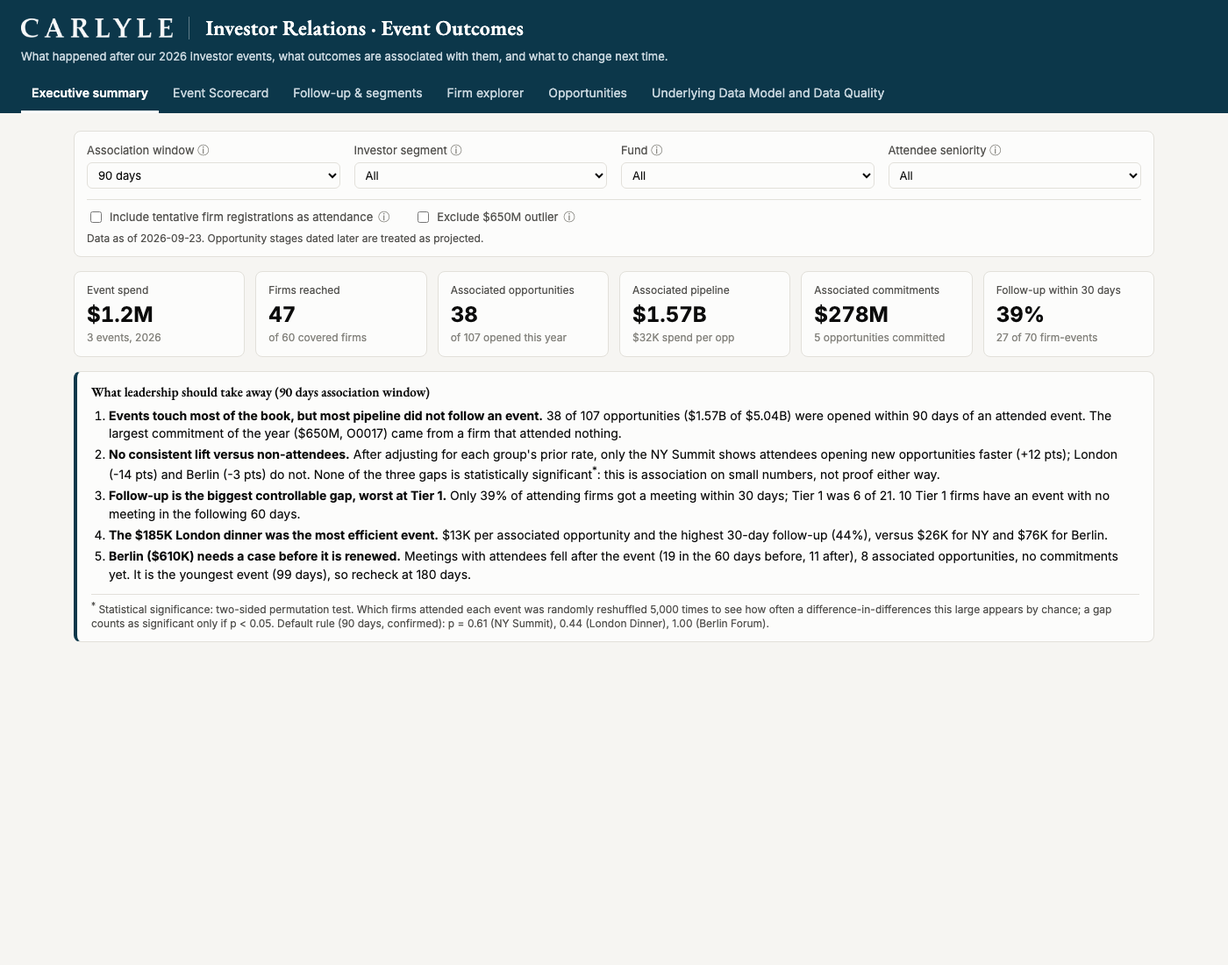
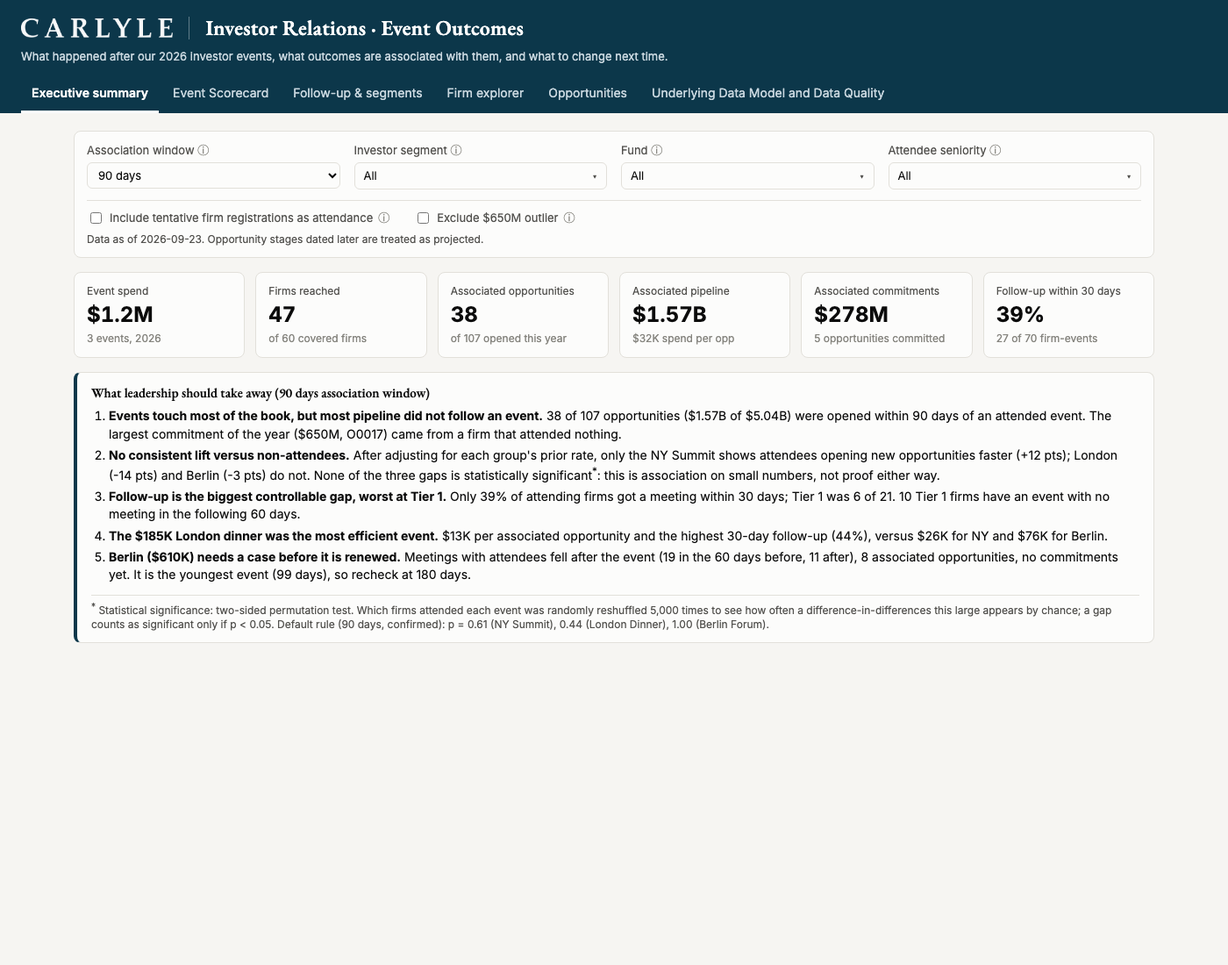
Make segment, fund and seniority filters multi-select
Empty selection means All; both seniority options equal no filter. Engines,
tests and method note updated; checklist dropdowns on the static page.

diff --git a/docs/index.html b/docs/index.html
@@ -38,6 +38,15 @@ main { max-width: 1280px; margin: 0 auto; padding: 20px 24px 60px; }
 .ctl-selects { display: grid; grid-template-columns: repeat(4, minmax(0, 1fr)); gap: 12px 16px; }
 .ctl-selects label.sel { flex-direction: column; align-items: stretch; gap: 4px; }
 .ctl-selects select { width: 100%; }
+.ms { position: relative; }
+.ms summary { list-style: none; cursor: pointer; border: 1px solid var(--border); border-radius: 6px; padding: 5px 28px 5px 10px; background: var(--surface); color: var(--text); font-size: 13px; white-space: nowrap; overflow: hidden; text-overflow: ellipsis; position: relative; }
+.ms summary::-webkit-details-marker { display: none; }
+.ms summary::after { content: '▾'; position: absolute; right: 10px; color: var(--text-2); }
+.ms[open] summary { border-color: var(--accent); }
+.ms-panel { position: absolute; z-index: 20; top: calc(100% + 4px); left: 0; right: 0; background: var(--surface); border: 1px solid var(--border); border-radius: 6px; box-shadow: 0 6px 18px rgba(0,0,0,.12); padding: 6px; max-height: 260px; overflow: auto; }
+.ms-panel label { display: flex; gap: 8px; align-items: center; padding: 5px 6px; border-radius: 4px; color: var(--text); font-size: 13px; cursor: pointer; }
+.ms-panel label:hover { background: var(--surface-2); }
+.ms-panel .ms-clear { display: block; width: 100%; text-align: left; border: 0; background: none; color: var(--accent); font: inherit; font-size: 12px; padding: 5px 6px; cursor: pointer; border-top: 1px solid var(--border); margin-top: 4px; }
 .ctl-toggles { display: flex; flex-wrap: wrap; gap: 8px 28px; margin-top: 12px; padding-top: 10px; border-top: 1px solid var(--border); }
 #filterNote:not(:empty) { margin-top: 8px; }
 #asof { margin-top: 6px; }
@@ -114,10 +123,10 @@ tr.sel { background: var(--surface-2); }
         <option value="90" selected>90 days</option><option value="180">180 days</option>
       </select>
     </label>
-    <label class="sel" title="Keep only firms in this investor segment: attendees, the non-attendee comparison group, and their opportunities."><span class="lbl">Investor segment <span class="info">ⓘ</span></span><select id="gSeg"><option>All</option></select></label>
-    <label class="sel" title="Keep only opportunities for this fund. Attendance, meetings and follow-up are not affected."><span class="lbl">Fund <span class="info">ⓘ</span></span><select id="gFund"><option>All</option></select></label>
-    <label class="sel" title="Count attendance only where a CIO or Managing Director was registered (or only where none was). Firms dropped by this filter leave the comparison group too, rather than being counted as non-attendees."><span class="lbl">Attendee seniority <span class="info">ⓘ</span></span>
-      <select id="gSen"><option value="All">All</option><option value="senior">CIO or MD registered</option><option value="non_senior">No CIO or MD</option></select></label>
+    <label class="sel" title="Pick one or more investor segments. Keeps only firms in those segments: attendees, the non-attendee comparison group, and their opportunities."><span class="lbl">Investor segment <span class="info">ⓘ</span></span><details class="ms" id="gSeg"><summary>All</summary><div class="ms-panel"></div></details></label>
+    <label class="sel" title="Pick one or more funds. Keeps only opportunities for those funds. Attendance, meetings and follow-up are not affected."><span class="lbl">Fund <span class="info">ⓘ</span></span><details class="ms" id="gFund"><summary>All</summary><div class="ms-panel"></div></details></label>
+    <label class="sel" title="Count attendance only where a CIO or Managing Director was registered (or only where none was). Selecting both options is the same as All. Firms dropped by this filter leave the comparison group too, rather than being counted as non-attendees."><span class="lbl">Attendee seniority <span class="info">ⓘ</span></span>
+      <details class="ms" id="gSen"><summary>All</summary><div class="ms-panel"><label><input type="checkbox" value="senior"> CIO or MD registered</label><label><input type="checkbox" value="non_senior"> No CIO or MD</label></div></details></label>
     </div>
     <div class="ctl-toggles">
     <label title="Each registrant is Confirmed or Tentative. By default a firm counts as attending an event only if at least one of its contacts is Confirmed. Turn this on to also count the 9 firm-event registrations where every contact was Tentative. Off by default because the data has no check-in record, so tentative firms may not have attended."><input type="checkbox" id="tent"> Include tentative firm registrations as attendance <span class="info">ⓘ</span></label>
@@ -413,24 +422,25 @@ document.querySelectorAll('#nav button').forEach(b => b.onclick = () => {
 
 const P = IRMetrics.prepare(D);
 (() => { const bad = IRMetrics.selfTest(P); bad.length ? console.error('metrics.js does not match mart_event_kpis', bad) : console.info('metrics.js self-test passed: matches mart_event_kpis for all 24 settings'); })();
-const filters = () => ({window: +$('#win').value, tentative: $('#tent').checked, segment: $('#gSeg').value, fund: $('#gFund').value,
-  seniority: $('#gSen').value, excludeOutlier: $('#gOut').checked});
-const extraActive = f => f.segment !== 'All' || f.fund !== 'All' || f.seniority !== 'All' || f.excludeOutlier;
+const msValues = id => [...document.querySelectorAll(`#${id} input:checked`)].map(x => x.value);
+const filters = () => ({window: +$('#win').value, tentative: $('#tent').checked, segment: msValues('gSeg'), fund: msValues('gFund'),
+  seniority: msValues('gSen'), excludeOutlier: $('#gOut').checked});
+const extraActive = f => !IRMetrics.isDefaultExtra(f);
 function kpis() { return IRMetrics.eventKpis(P, filters()); }
 function ctx() {
   const f = filters(), {att, base} = IRMetrics.attendance(P, f);
   const attFirms = new Set(att.map(r => r.firm_id));
-  const noneLabel = f.seniority !== 'All' ? 'No qualifying attendance' : f.tentative ? 'No attendance' : 'No confirmed attendance';
+  const noneLabel = IRMetrics.senMode(f) !== 'All' ? 'No qualifying attendance' : f.tentative ? 'No attendance' : 'No confirmed attendance';
   const opps = IRMetrics.associate(IRMetrics.filteredOpps(P, f), att, f.window).map(o => ({...o,
     bucket: o.assoc_event_id ? `Event-associated (${f.window}d)` : attFirms.has(o.firm_id) ? 'Attendee, outside window' : noneLabel}));
-  const firmsIn = f.segment === 'All' ? D.mart_firm : D.mart_firm.filter(r => r.segment === f.segment);
+  const firmsIn = !f.segment.length ? D.mart_firm : D.mart_firm.filter(r => f.segment.includes(r.segment));
   return {f, att, base, opps, attFirms, firmsIn, noneLabel, buckets: [`Event-associated (${f.window}d)`, 'Attendee, outside window', noneLabel]};
 }
 function describeFilters(f) {
   const parts = [`${f.window}-day window`, f.tentative ? 'confirmed + tentative attendance' : 'confirmed attendance'];
-  if (f.segment !== 'All') parts.push(`segment: ${f.segment}`);
-  if (f.fund !== 'All') parts.push(`fund: ${f.fund}`);
-  if (f.seniority !== 'All') parts.push(f.seniority === 'senior' ? 'CIO/MD registered' : 'no CIO/MD');
+  if (f.segment.length) parts.push(`segment: ${f.segment.join(', ')}`);
+  if (f.fund.length) parts.push(`fund: ${f.fund.join(', ')}`);
+  if (IRMetrics.senMode(f) !== 'All') parts.push(IRMetrics.senMode(f) === 'senior' ? 'CIO/MD registered' : 'no CIO/MD');
   if (f.excludeOutlier) parts.push('excl. $650M outlier');
   return parts.join(' · ');
 }
@@ -482,7 +492,7 @@ function renderOverview() {
   const C = ctx(), cost = sum('cost_usd'), firms = C.attFirms.size;
   const tiles = [
     ['Event spend', fmtM(cost), '3 events, 2026'],
-    ['Firms reached', firms, `of ${C.firmsIn.length} covered firms${C.f.segment !== 'All' ? ' in segment' : ''}`],
+    ['Firms reached', firms, `of ${C.firmsIn.length} covered firms${C.f.segment.length ? ' in selected segments' : ''}`],
     ['Associated opportunities', sum('assoc_opps'), `of ${C.opps.length} opened this year${extraActive(C.f) ? ' (filtered)' : ''}`],
     ['Associated pipeline', fmtM(sum('assoc_pipeline_usd')), `${fmtK(cost / Math.max(1, sum('assoc_opps')))} spend per opp`],
     ['Associated commitments', fmtM(sum('assoc_committed_usd')), `${sum('assoc_committed_opps')} opportunities committed`],
@@ -739,9 +749,19 @@ function renderAll() {
 }
 $('#win').onchange = renderAll; $('#tent').onchange = renderAll;
 initFirmFilters();
-$('#gSeg').insertAdjacentHTML('beforeend', [...new Set(D.mart_firm.map(r => r.segment))].sort().map(v => `<option>${esc(v)}</option>`).join(''));
-$('#gFund').insertAdjacentHTML('beforeend', [...new Set(D.mart_opportunity.map(r => r.fund_name))].sort().map(v => `<option>${esc(v)}</option>`).join(''));
-['#gSeg', '#gFund', '#gSen', '#gOut'].forEach(sel => $(sel).onchange = renderAll);
+const msOptions = (id, vals) => $(`#${id} .ms-panel`).insertAdjacentHTML('afterbegin', vals.map(v => `<label><input type="checkbox" value="${esc(v)}"> ${esc(v)}</label>`).join(''));
+msOptions('gSeg', [...new Set(D.mart_firm.map(r => r.segment))].sort());
+msOptions('gFund', [...new Set(D.mart_opportunity.map(r => r.fund_name))].sort());
+['gSeg', 'gFund', 'gSen'].forEach(id => {
+  const el = document.getElementById(id), panel = el.querySelector('.ms-panel');
+  panel.insertAdjacentHTML('beforeend', '<button type="button" class="ms-clear">Clear (All)</button>');
+  const sync = () => { const v = [...el.querySelectorAll('input:checked')].map(x => x.parentElement.textContent.trim());
+    el.querySelector('summary').textContent = !v.length ? 'All' : v.length <= 2 ? v.join(', ') : `${v.length} selected`; };
+  panel.addEventListener('change', () => { sync(); renderAll(); });
+  panel.querySelector('.ms-clear').onclick = () => { el.querySelectorAll('input').forEach(x => (x.checked = false)); sync(); renderAll(); };
+});
+document.addEventListener('click', e => document.querySelectorAll('details.ms[open]').forEach(d => { if (!d.contains(e.target)) d.open = false; }));
+$('#gOut').onchange = renderAll;
 if (startView) document.querySelector(`#nav button[data-view="${startView}"]`)?.click(); else renderAll();
 </script>
 </body>

diff --git a/docs/metrics.js b/docs/metrics.js
@@ -1,6 +1,7 @@
 // Filter-aware event KPIs for the static dashboard. Line-for-line port of app/metrics.py:
 // with no extra filters it reproduces mart_event_kpis (checked by selfTest() below).
-// Filters: {window, tentative, segment, fund, seniority: 'All'|'senior'|'non_senior', excludeOutlier}
+// Filters: {window, tentative, segment: [..], fund: [..], seniority: subset of ['senior','non_senior'], excludeOutlier}
+// Empty arrays mean no filter; both seniority options selected is the same as none.
 (function () {
   const DAY = 864e5;
   const toDate = s => (s ? new Date(s + 'T00:00:00Z') : null);
@@ -27,20 +28,22 @@
     return {fe, opps, stages, events, firms: D.mart_firm, meetings: D.mart_meetings, kpis: D.mart_event_kpis};
   }
 
-  const isDefaultExtra = f => f.segment === 'All' && f.fund === 'All' && f.seniority === 'All' && !f.excludeOutlier;
+  const arr = v => (v == null || v === 'All' ? [] : Array.isArray(v) ? v : [v]);
+  const senMode = f => (arr(f.seniority).length === 1 ? arr(f.seniority)[0] : 'All');
+  const isDefaultExtra = f => !arr(f.segment).length && !arr(f.fund).length && senMode(f) === 'All' && !f.excludeOutlier;
 
   function attendance(P, f) {
     let base = P.fe.filter(r => r.is_confirmed || f.tentative);
-    if (f.segment !== 'All') base = base.filter(r => r.segment === f.segment);
+    if (arr(f.segment).length) base = base.filter(r => arr(f.segment).includes(r.segment));
     const senior = r => (f.tentative ? r.senior_contacts > 0 : r.has_confirmed_senior);
     let att = base;
-    if (f.seniority === 'senior') att = base.filter(senior);
-    else if (f.seniority === 'non_senior') att = base.filter(r => !senior(r));
+    if (senMode(f) === 'senior') att = base.filter(senior);
+    else if (senMode(f) === 'non_senior') att = base.filter(r => !senior(r));
     return {att, base};
   }
 
   function filteredOpps(P, f) {
-    return P.opps.filter(o => (f.segment === 'All' || o.segment === f.segment) && (f.fund === 'All' || o.fund_name === f.fund) && !(f.excludeOutlier && o.is_amount_outlier));
+    return P.opps.filter(o => (!arr(f.segment).length || arr(f.segment).includes(o.segment)) && (!arr(f.fund).length || arr(f.fund).includes(o.fund_name)) && !(f.excludeOutlier && o.is_amount_outlier));
   }
 
   function associate(opps, att, window) {
@@ -73,7 +76,7 @@
     const {att, base} = attendance(P, f);
     const opps = filteredOpps(P, f);
     const assoc = associate(opps, att, f.window);
-    const firms = f.segment === 'All' ? P.firms : P.firms.filter(r => r.segment === f.segment);
+    const firms = !arr(f.segment).length ? P.firms : P.firms.filter(r => arr(f.segment).includes(r.segment));
     const rand = rng(7);
     const rows = P.events.map(ev => {
       const a = att.filter(r => r.event_id === ev.event_id);
@@ -131,12 +134,12 @@
       'diff_in_diff_opp_rate', 'open_opps_attendees', 'open_opps_attendees_advanced', 'open_opps_non_attendees', 'open_opps_non_attendees_advanced',
       'open_pipeline_attendees_usd'];
     const bad = [];
-    [30, 60, 90, 180].forEach(w => [false, true].forEach(t => eventKpis(P, {window: w, tentative: t, segment: 'All', fund: 'All', seniority: 'All', excludeOutlier: false}).forEach(r => {
+    [30, 60, 90, 180].forEach(w => [false, true].forEach(t => eventKpis(P, {window: w, tentative: t, segment: [], fund: [], seniority: [], excludeOutlier: false}).forEach(r => {
       const m = P.kpis.find(k => k.event_id === r.event_id && k.window_days === w && k.include_tentative === t);
       cols.forEach(c => { const x = r[c], y = m[c]; if (!((x == null && y == null) || Math.abs(x - y) < 1e-9)) bad.push(`${w}/${t}/${r.event_id}/${c}: ${x} vs ${y}`); });
     })));
     return bad;
   }
 
-  window.IRMetrics = {prepare, attendance, filteredOpps, associate, eventKpis, selfTest};
+  window.IRMetrics = {prepare, attendance, filteredOpps, associate, eventKpis, selfTest, senMode, isDefaultExtra};
 })();

diff --git a/app/streamlit_app.py b/app/streamlit_app.py
@@ -161,13 +161,13 @@ brand_css()
 row = st.columns(4)
 window = row[0].selectbox("Association window (days)", [30, 60, 90, 180], index=2,
                           help="How many days after an event a new opportunity can be opened and still be linked to that event. The firm must have attended; if several events qualify, the most recent one gets credit. Longer windows link more pipeline but make the link to the event weaker.")
-segment = row[1].selectbox("Investor segment", ["All"] + sorted(firms.segment.unique()),
-                           help="Keep only firms in this investor segment: attendees, the non-attendee comparison group, and their opportunities.")
-fund = row[2].selectbox("Fund", ["All"] + sorted(opps.fund_name.unique()),
-                        help="Keep only opportunities for this fund. Attendance, meetings and follow-up are not affected.")
-seniority = row[3].selectbox("Attendee seniority", ["All", "senior", "non_senior"],
-                             format_func={"All": "All", "senior": "CIO or MD registered", "non_senior": "No CIO or MD"}.get,
-                             help="Count attendance only where a CIO or Managing Director was registered (or only where none was). Firms dropped by this filter leave the comparison group too, rather than being counted as non-attendees.")
+segment = tuple(row[1].multiselect("Investor segment", sorted(firms.segment.unique()), placeholder="All",
+                                   help="Pick one or more investor segments. Keeps only firms in those segments: attendees, the non-attendee comparison group, and their opportunities."))
+fund = tuple(row[2].multiselect("Fund", sorted(opps.fund_name.unique()), placeholder="All",
+                                help="Pick one or more funds. Keeps only opportunities for those funds. Attendance, meetings and follow-up are not affected."))
+seniority = tuple(row[3].multiselect("Attendee seniority", ["senior", "non_senior"], placeholder="All",
+                             format_func={"senior": "CIO or MD registered", "non_senior": "No CIO or MD"}.get,
+                             help="Count attendance only where a CIO or Managing Director was registered (or only where none was). Selecting both options is the same as All. Firms dropped by this filter leave the comparison group too, rather than being counted as non-attendees."))
 row = st.columns([2.2, 1.3, 2.5])
 tent = row[0].toggle("Include tentative firm registrations as attendance", value=False,
                      help="Each registrant is Confirmed or Tentative. By default a firm counts as attending an event only if at least one of its contacts is Confirmed. Turn this on to also count the 9 firm-event registrations where every contact was Tentative. Off by default because the data has no check-in record, so tentative firms may not have attended.")
@@ -188,22 +188,22 @@ labels = [EV_SHORT[e] for e in K.event_id]
 # filtered detail shared by the charts
 ATT, _BASE = attendance(P, F)
 ATT_FIRMS = set(ATT.firm_id)
-NONE_LABEL = "No qualifying attendance" if seniority != "All" else "No attendance" if tent else "No confirmed attendance"
+NONE_LABEL = "No qualifying attendance" if F.seniority_mode != "All" else "No attendance" if tent else "No confirmed attendance"
 BUCKETS = [f"Event-associated ({window}d)", "Attendee, outside window", NONE_LABEL]
 FOPPS = associate(filtered_opps(P, F), ATT, window)
 FOPPS["bucket"] = [BUCKETS[0] if isinstance(e, str) else BUCKETS[1] if fid in ATT_FIRMS else NONE_LABEL
                    for e, fid in zip(FOPPS.assoc_event_id, FOPPS.firm_id)]
-FIRMS_IN = firms if segment == "All" else firms[firms.segment == segment]
+FIRMS_IN = firms if not segment else firms[firms.segment.isin(segment)]
 
 
 def describe(f: Filters) -> str:
     parts = [f"{f.window}-day window", "confirmed + tentative attendance" if f.tentative else "confirmed attendance"]
-    if f.segment != "All":
-        parts.append(f"segment: {f.segment}")
-    if f.fund != "All":
-        parts.append(f"fund: {f.fund}")
-    if f.seniority != "All":
-        parts.append("CIO/MD registered" if f.seniority == "senior" else "no CIO/MD")
+    if f.segment:
+        parts.append("segment: " + ", ".join(f.segment))
+    if f.fund:
+        parts.append("fund: " + ", ".join(f.fund))
+    if f.seniority_mode != "All":
+        parts.append("CIO/MD registered" if f.seniority_mode == "senior" else "no CIO/MD")
     if f.exclude_outlier:
         parts.append("excl. $650M outlier")
     return " · ".join(parts)
@@ -223,7 +223,7 @@ with tab_o:
     reached = len(ATT_FIRMS)
     cols = st.columns(3) + st.columns(3)
     cols[0].metric("Event spend", fm(K.cost_usd.sum()), help="3 events, 2026")
-    cols[1].metric("Firms reached", reached, help=f"of {len(FIRMS_IN)} covered firms" + (" in segment" if segment != "All" else ""))
+    cols[1].metric("Firms reached", reached, help=f"of {len(FIRMS_IN)} covered firms" + (" in selected segments" if segment else ""))
     cols[2].metric("Associated opportunities", int(K.assoc_opps.sum()), help=f"of {len(FOPPS)} opened this year" + ("" if F.is_default_extra else " (filtered)"))
     cols[3].metric("Associated pipeline", fm(K.assoc_pipeline_usd.sum()))
     cols[4].metric("Associated commitments", fm(K.assoc_committed_usd.sum()))

diff --git a/app/metrics.py b/app/metrics.py
@@ -7,11 +7,13 @@ mart_event_kpis exactly; tests/test_metrics.py asserts that for all 24 grid cell
 docs/metrics.js is a line-for-line port for the static dashboard.
 
 Filter semantics
-  segment    keeps firms in that investor segment (attendees, comparison group, opportunities)
-  fund       keeps opportunities for that fund (attendance and meetings unaffected)
+  segment    keeps firms in the selected investor segments (attendees, comparison group, opportunities)
+  fund       keeps opportunities for the selected funds (attendance and meetings unaffected)
   seniority  "senior": count attendance only where a CIO or MD was registered
              "non_senior": only where none was; firms dropped by this filter are
              excluded from the comparison group rather than counted as non-attendees
+  Each of these three is multi-select: an empty selection (or "All") means no filter;
+  selecting both seniority options is the same as no seniority filter.
   exclude_outlier drops opportunities flagged is_amount_outlier (O0017, $650M)
 """
 from __future__ import annotations
@@ -28,14 +30,24 @@ N_PERMUTATIONS = 5_000
 class Filters:
     window: int = 90
     tentative: bool = False
-    segment: str = "All"
-    fund: str = "All"
-    seniority: str = "All"  # All | senior | non_senior
+    segment: tuple = ()
+    fund: tuple = ()
+    seniority: tuple = ()  # subset of ("senior", "non_senior")
     exclude_outlier: bool = False
+
+    def __post_init__(self):
+        for name in ("segment", "fund", "seniority"):
+            v = getattr(self, name)
+            v = () if v in (None, "All") else (v,) if isinstance(v, str) else tuple(sorted(x for x in v if x != "All"))
+            object.__setattr__(self, name, v)
+
+    @property
+    def seniority_mode(self) -> str:
+        return self.seniority[0] if len(self.seniority) == 1 else "All"
 
     @property
     def is_default_extra(self) -> bool:
-        return self.segment == "All" and self.fund == "All" and self.seniority == "All" and not self.exclude_outlier
+        return not self.segment and not self.fund and self.seniority_mode == "All" and not self.exclude_outlier
 
 
 def _median(s: pd.Series):
@@ -61,23 +73,23 @@ def attendance(P: dict, f: Filters) -> tuple[pd.DataFrame, pd.DataFrame]:
     """(attending firm-events after all filters, attending firm-events before the seniority filter)."""
     fe = P["fe"]
     base = fe[fe.is_confirmed | f.tentative]
-    if f.segment != "All":
-        base = base[base.segment == f.segment]
+    if f.segment:
+        base = base[base.segment.isin(f.segment)]
     senior = base.senior_contacts.gt(0) if f.tentative else base.has_confirmed_senior
     att = base
-    if f.seniority == "senior":
+    if f.seniority_mode == "senior":
         att = base[senior]
-    elif f.seniority == "non_senior":
+    elif f.seniority_mode == "non_senior":
         att = base[~senior]
     return att, base
 
 
 def filtered_opps(P: dict, f: Filters) -> pd.DataFrame:
     o = P["opps"]
-    if f.segment != "All":
-        o = o[o.segment == f.segment]
-    if f.fund != "All":
-        o = o[o.fund_name == f.fund]
+    if f.segment:
+        o = o[o.segment.isin(f.segment)]
+    if f.fund:
+        o = o[o.fund_name.isin(f.fund)]
     if f.exclude_outlier:
         o = o[~o.is_amount_outlier]
     return o
@@ -106,7 +118,7 @@ def event_kpis(P: dict, f: Filters) -> pd.DataFrame:
     att, base = attendance(P, f)
     opps = filtered_opps(P, f)
     assoc = associate(opps, att, f.window)
-    firms = P["firms"] if f.segment == "All" else P["firms"][P["firms"].segment == f.segment]
+    firms = P["firms"] if not f.segment else P["firms"][P["firms"].segment.isin(f.segment)]
     stages = P["stages"]
     rng = np.random.default_rng(7)
     rows = []

diff --git a/tests/test_streamlit_app.py b/tests/test_streamlit_app.py
@@ -18,6 +18,10 @@ def sel(label, value):
     return lambda at: next(s for s in at.selectbox if s.label == label).set_value(value)
 
 
+def multi(label, values):
+    return lambda at: next(s for s in at.multiselect if s.label == label).set_value(values)
+
+
 def tog(label):
     return lambda at: next(t for t in at.toggle if t.label == label).set_value(True)
 
@@ -29,11 +33,14 @@ def metric(at, label):
 def test_filters():
     base = run()
     assert metric(base, "Associated opportunities") == "38"
-    cases = {"segment": sel("Investor segment", "Pension"), "fund": sel("Fund", "Fund Beta"),
-             "senior": sel("Attendee seniority", "senior"), "outlier": tog("Exclude $650M outlier"),
+    cases = {"segment": multi("Investor segment", ["Pension"]), "fund": multi("Fund", ["Fund Beta"]),
+             "senior": multi("Attendee seniority", ["senior"]), "outlier": tog("Exclude $650M outlier"),
+             "both_senior": multi("Attendee seniority", ["senior", "non_senior"]),
+             "two_segments": multi("Investor segment", ["Pension", "Insurance"]),
              "window": sel("Association window (days)", 30), "tentative": tog("Include tentative firm registrations as attendance")}
     got = {k: metric(run(f), "Associated opportunities") for k, f in cases.items()}
-    assert got == {"segment": "6", "fund": "13", "senior": "13", "outlier": "38", "window": "21", "tentative": "41"}, got
+    assert got == {"segment": "6", "fund": "13", "senior": "13", "outlier": "38", "both_senior": "38", "two_segments": got["two_segments"],
+                   "window": "21", "tentative": "41"}, got
     print("streamlit filter results:", got)
 
 

diff --git a/tests/test_metrics.py b/tests/test_metrics.py
@@ -31,10 +31,23 @@ def test_default_filters_match_sql_mart():
 
 def test_filters_only_shrink():
     base = event_kpis(P, Filters())
-    for f in [Filters(segment="Pension"), Filters(fund="Fund Beta"), Filters(seniority="senior"), Filters(exclude_outlier=True)]:
+    for f in [Filters(segment="Pension"), Filters(fund="Fund Beta"), Filters(seniority="senior"), Filters(exclude_outlier=True),
+              Filters(segment=("Pension", "Insurance")), Filters(fund=("Fund Alpha", "Fund Beta"))]:
         k = event_kpis(P, f)
         assert (k.assoc_opps <= base.assoc_opps).all() and (k.firms_attended <= base.firms_attended).all(), f
 
 
+def test_multiselect_semantics():
+    """Two segments = sum of each alone for firm counts; both seniority options = no filter."""
+    a, b = event_kpis(P, Filters(segment="Pension")), event_kpis(P, Filters(segment="Insurance"))
+    ab = event_kpis(P, Filters(segment=("Pension", "Insurance")))
+    assert (ab.firms_attended.values == a.firms_attended.values + b.firms_attended.values).all()
+    assert (ab.assoc_opps.values == a.assoc_opps.values + b.assoc_opps.values).all()
+    both = event_kpis(P, Filters(seniority=("senior", "non_senior")))
+    assert Filters(seniority=("senior", "non_senior")).is_default_extra
+    assert (both.assoc_opps.values == event_kpis(P, Filters()).assoc_opps.values).all()
+
+
 if __name__ == "__main__":
+    test_multiselect_semantics()
     test_default_filters_match_sql_mart(); test_filters_only_shrink(); print("metrics tests passed")

diff --git a/docs/METHOD.md b/docs/METHOD.md
@@ -28,9 +28,9 @@ The window and tentative controls read precomputed SQL results. Four more filter
 
 | Filter | What it does |
 |---|---|
-| Investor segment | Keeps only firms in that segment: attendees, the non-attendee comparison group, and their opportunities |
-| Fund | Keeps only opportunities for that fund. Attendance, meetings and follow-up do not change |
-| Attendee seniority | Counts attendance only where a CIO or Managing Director was registered, or only where none was. Firms dropped by this filter also leave the comparison group, rather than being counted as non-attendees |
+| Investor segment (multi-select) | Keeps only firms in the selected segments: attendees, the non-attendee comparison group, and their opportunities |
+| Fund (multi-select) | Keeps only opportunities for the selected funds. Attendance, meetings and follow-up do not change |
+| Attendee seniority (multi-select) | Counts attendance only where a CIO or Managing Director was registered, or only where none was; selecting both is the same as no filter. Firms dropped by this filter also leave the comparison group, rather than being counted as non-attendees |
 | Exclude $650M outlier | Removes O0017. The firm attended no event, so event metrics do not change; totals, the pipeline donut and opportunity charts do |
 
 Event cost is not split by filter, so cost-per-opportunity under a filter is full event cost over the filtered opportunities. With no filters, both engines reproduce the SQL results exactly for all 24 window and attendance settings (`tests/test_metrics.py`, and a self-test the static page runs on load). Under filters, p-values are recomputed with a fresh set of 5,000 reshuffles, so the two dashboards can differ in the second decimal place. Filtered groups are small: read rates as directional.
